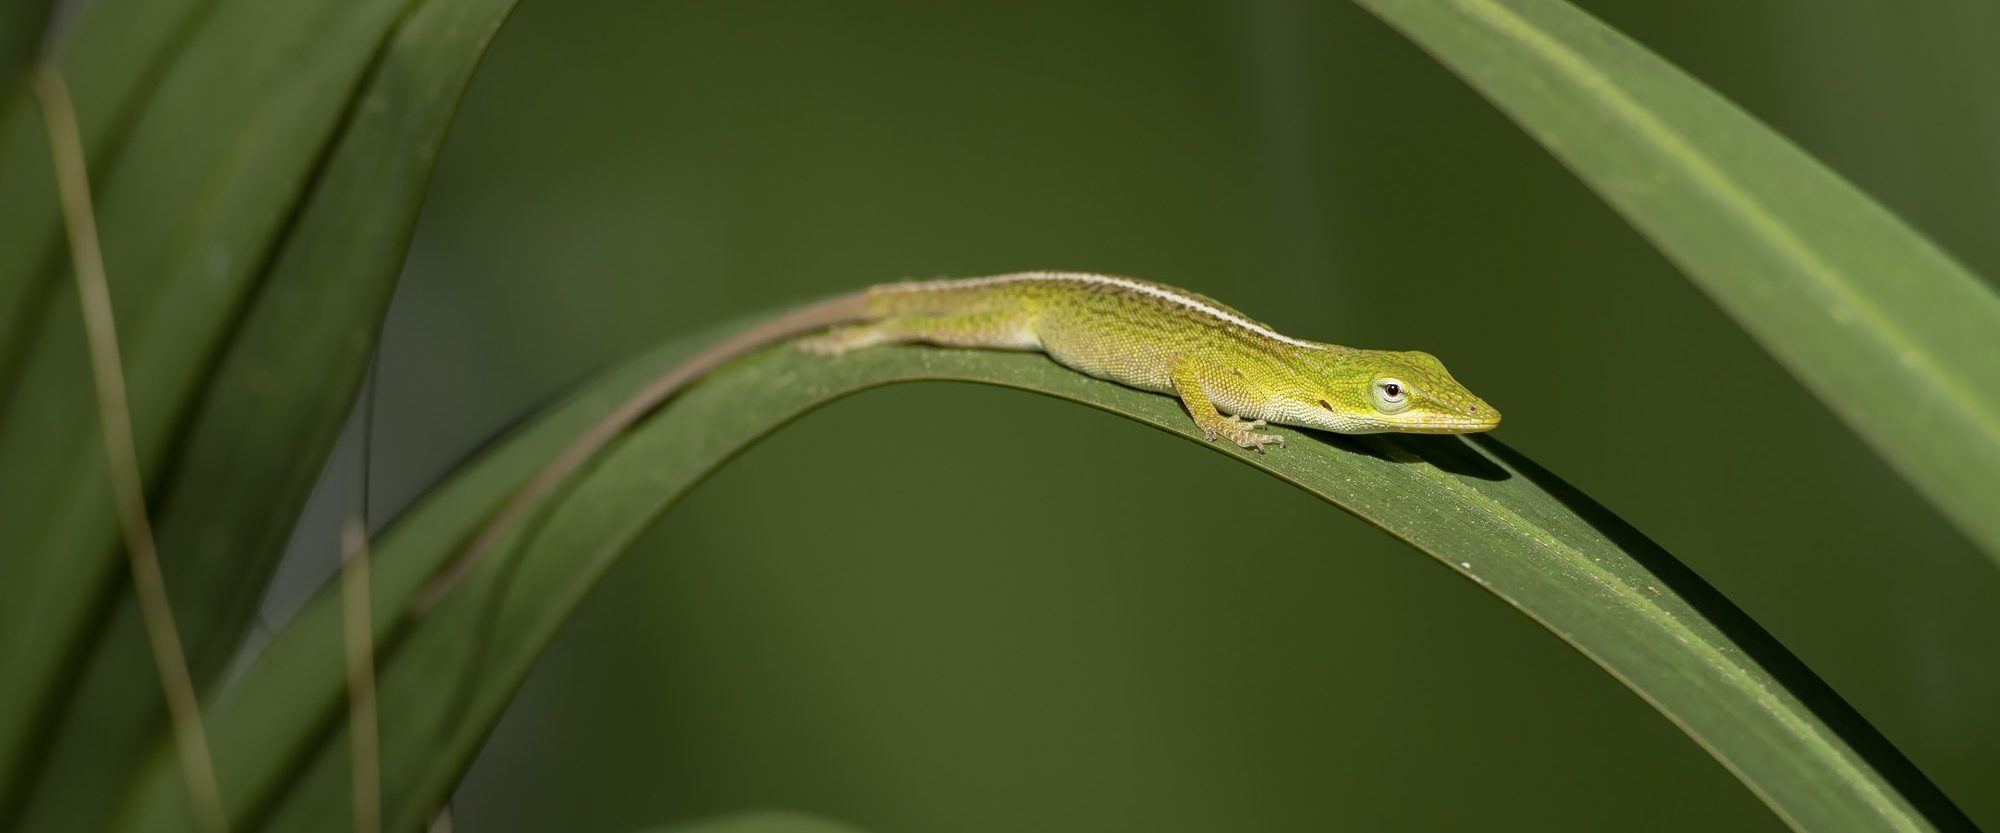
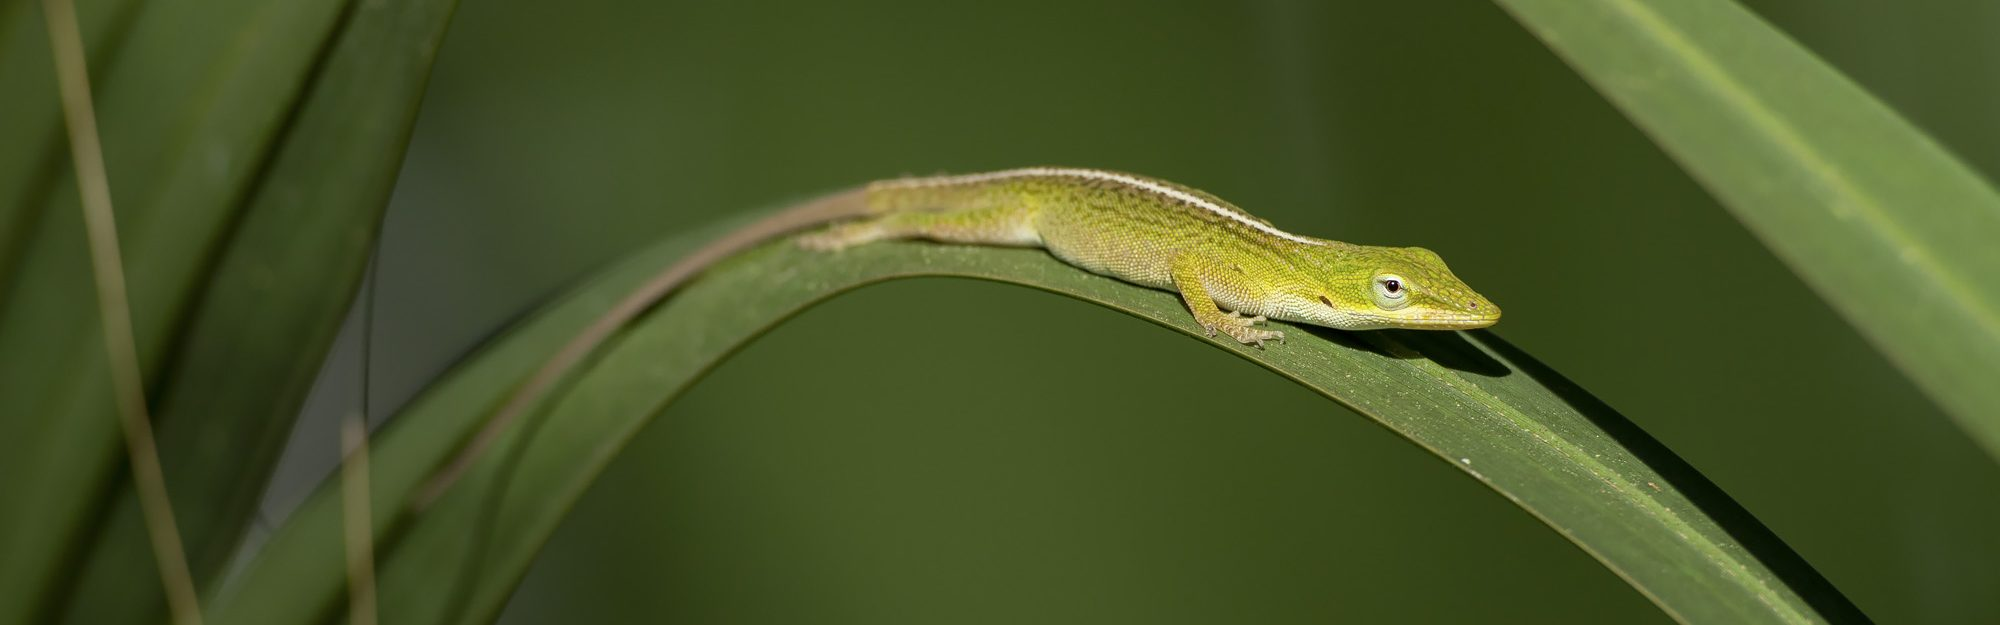
Add files via upload

diff --git a/src/assets/css/style.css b/src/assets/css/style.css
@@ -26,6 +26,7 @@
   /* Measure and rhythm --------------------------------------------------- */
   --measure: 42rem;   /* reading width for body copy */
   --wide:    68rem;   /* grids, galleries            */
+  --hero:    76rem;   /* hero image and its caption  */
   --gutter:  1.75rem;
 }
 
@@ -96,6 +97,10 @@ code { font-family: ui-monospace, "SF Mono", Menlo, Consolas, monospace; font-si
    ========================================================================== */
 .wrap      { max-width: var(--wide);    margin: 0 auto; padding: 0 var(--gutter); }
 .wrap-text { max-width: var(--measure); margin: 0 auto; padding: 0 var(--gutter); }
+/* a slightly wider box for centred page openings, so big headings do not
+   break onto a line with a single orphaned word */
+.wrap-text--intro { max-width: 50rem; }
+.wrap-text--intro .lead { max-width: 34rem; margin-left: auto; margin-right: auto; }
 .section   { padding: 5rem 0; }
 .section--tight { padding: 3rem 0; }
 .section--band  { background: var(--bg-alt); }
@@ -110,17 +115,16 @@ code { font-family: ui-monospace, "SF Mono", Menlo, Consolas, monospace; font-si
    Masthead + navigation
    ========================================================================== */
 .masthead {
-  padding: 2.25rem 0 0;
+  padding: 1.6rem 0 0;
   text-align: center;
 }
 .masthead__logo { display: inline-block; border: 0; }
-.masthead__logo img { width: 560px; max-width: 86vw; margin: 0 auto; }
+.masthead__logo img { width: 480px; max-width: 84vw; margin: 0 auto; }
 
 .nav {
-  margin-top: 2rem;
+  margin-top: 1.4rem;
   border-top: 1px solid var(--rule);
-  border-bottom: 1px solid var(--rule);
-  padding: .9rem 0;
+  padding: .75rem 0 .6rem;
 }
 .nav__list {
   list-style: none;
@@ -143,7 +147,7 @@ code { font-family: ui-monospace, "SF Mono", Menlo, Consolas, monospace; font-si
 .nav__list a[aria-current="page"] { color: var(--navy); border-bottom: 1px solid var(--gold); }
 
 /* the orange feature link, sitting on its own line beneath the main nav */
-.nav-feature { text-align: center; padding: .85rem 0 0; }
+.nav-feature { text-align: center; padding: 0 0 .8rem; border-bottom: 1px solid var(--rule); margin-top: -1px; }
 .nav-feature a {
   font-family: var(--sans);
   font-size: .74rem;
@@ -158,14 +162,17 @@ code { font-family: ui-monospace, "SF Mono", Menlo, Consolas, monospace; font-si
 /* ==========================================================================
    Hero
    ========================================================================== */
-.hero { margin-top: 2.5rem; }
+.hero { margin-top: 1.75rem; }
 .hero__img {
+  display: block;
   width: 100%;
-  aspect-ratio: 2.4 / 1;
+  max-width: var(--hero);        /* inset, not full-bleed */
+  margin: 0 auto;
+  aspect-ratio: 3.2 / 1;         /* the Stoddard proportion */
   object-fit: cover;
 }
 .hero__caption {
-  max-width: var(--wide);
+  max-width: var(--hero);
   margin: .85rem auto 0;
   padding: 0 var(--gutter);
   font-family: var(--serif);
@@ -479,8 +486,8 @@ code { font-family: ui-monospace, "SF Mono", Menlo, Consolas, monospace; font-si
   .press-list li { grid-template-columns: 1fr; gap: .25rem; }
   .pub { grid-template-columns: 1fr; gap: .25rem; }
   .pub__n { display: none; }
-  .hero { margin-top: 1.5rem; }
-  .hero__img { aspect-ratio: 16/10; }
+  .hero { margin-top: 1.25rem; }
+  .hero__img { aspect-ratio: 2 / 1; }
   .nav__list { gap: .35rem 1.1rem; }
   .footer { margin-top: 4rem; }
 }
